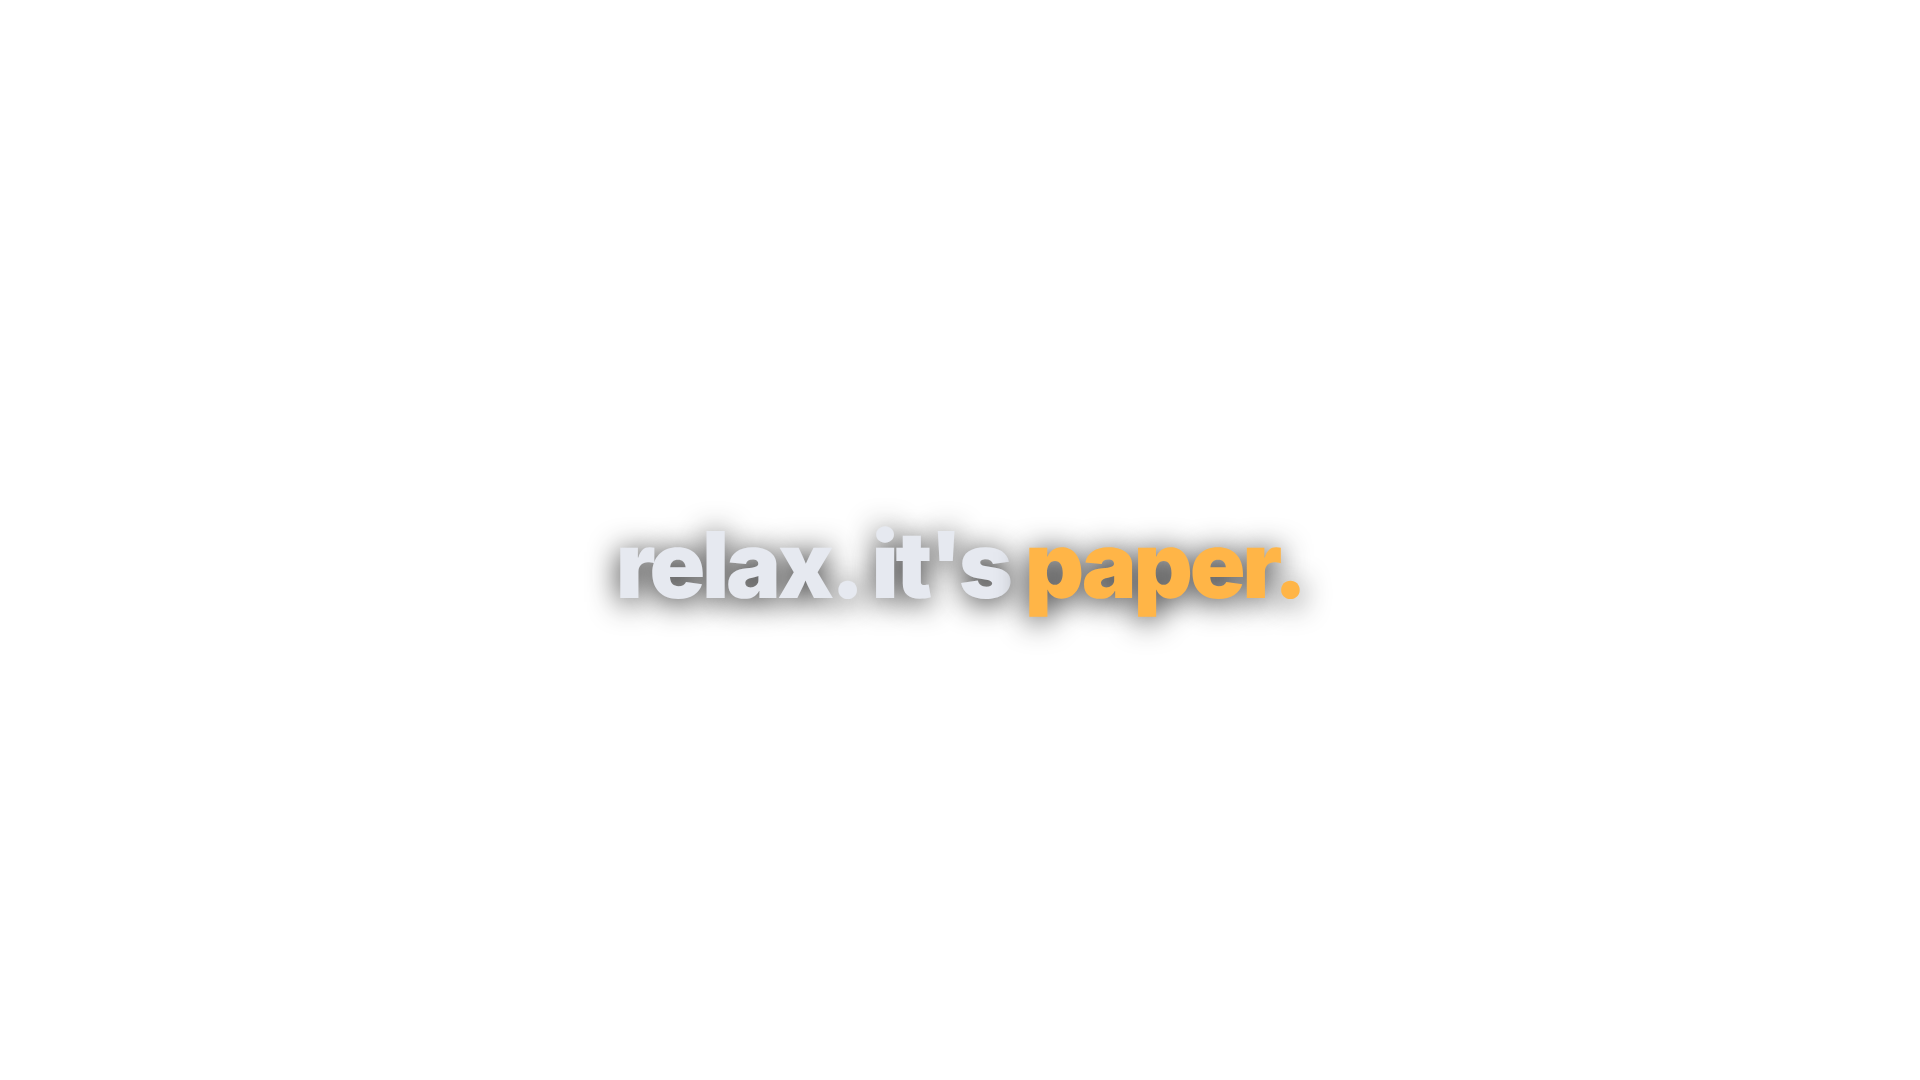
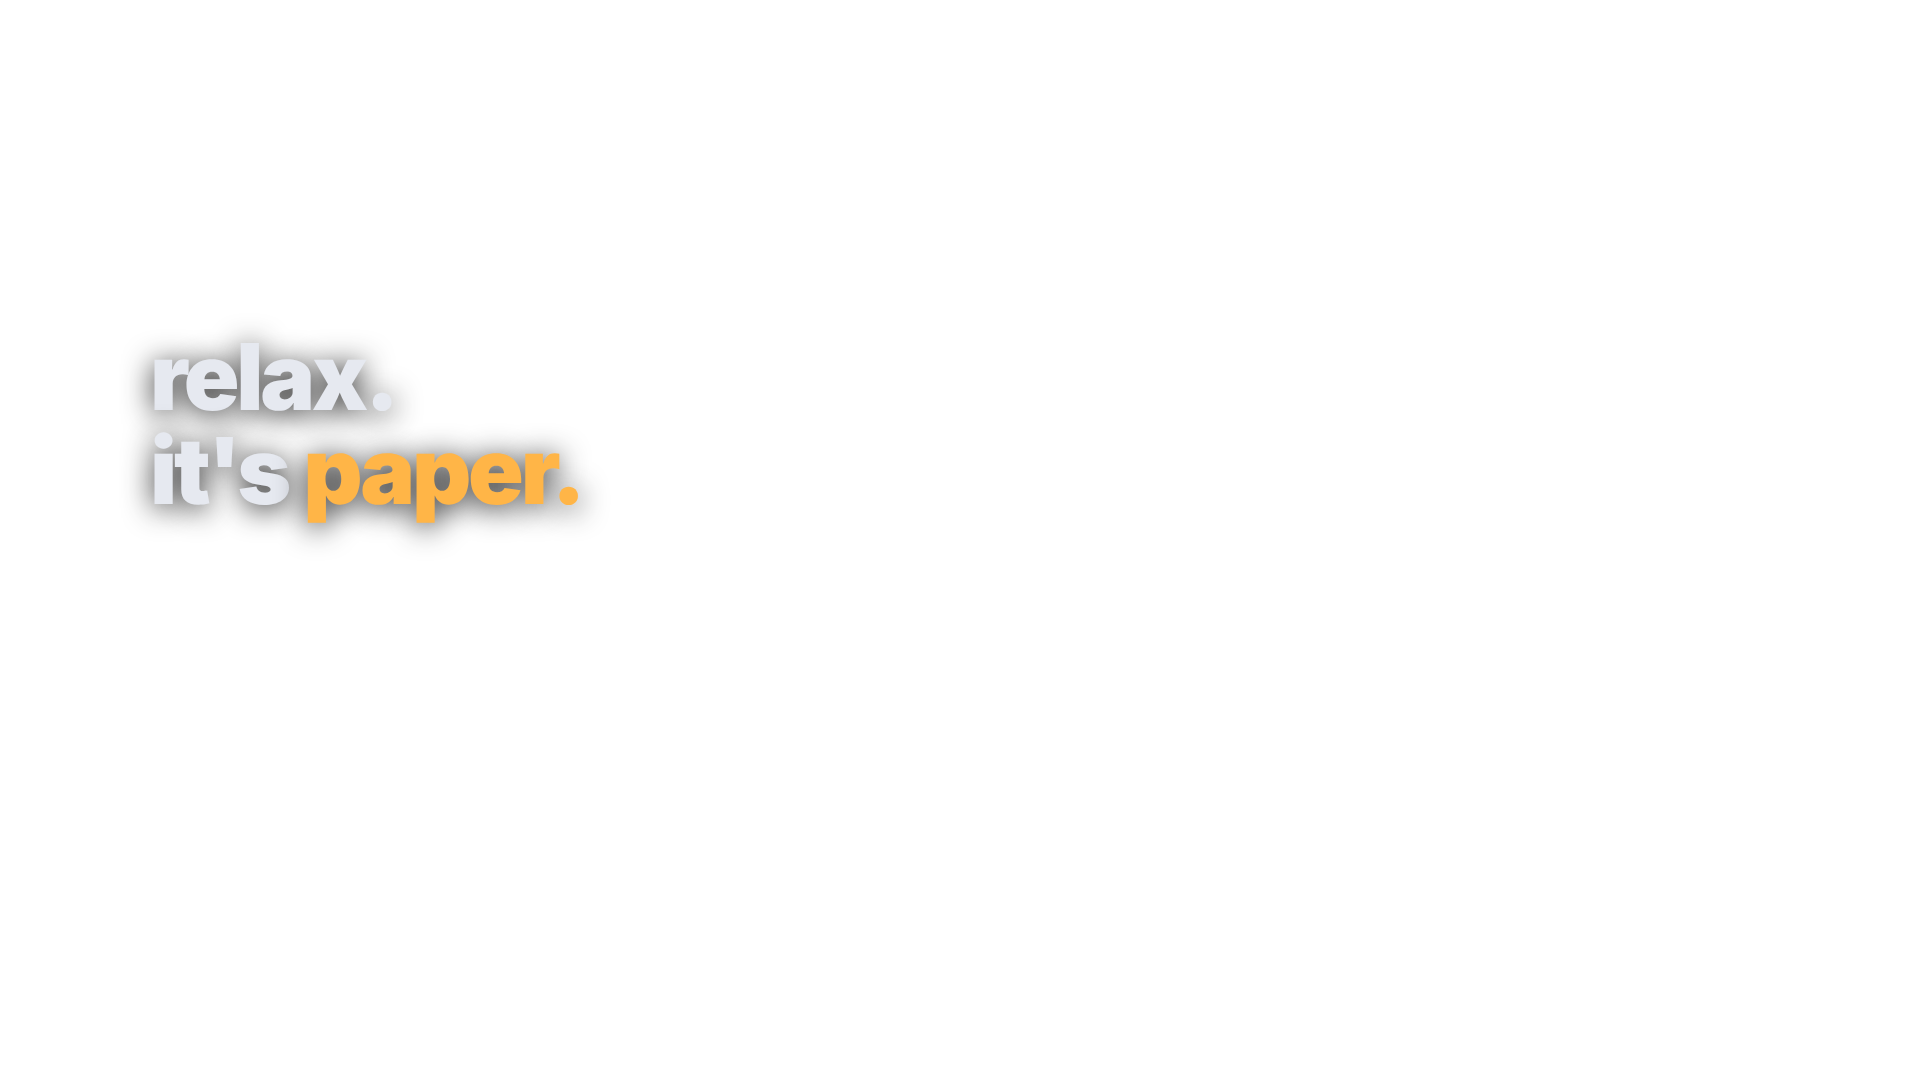
Trailer pipeline: overlay builder, edit list, region blur, VO + score mix
Claude-Session: https://claude.ai/code/session_017xU29rumcgkrYhmPPFcfdL

Changed region(s): [[0.0625, 0.3056, 0.3125, 0.5194], [0.3125, 0.4889, 0.6875, 0.5806]]

diff --git a/marketing/tools/trailer_ovl.py b/marketing/tools/trailer_ovl.py
@@ -1,0 +1,182 @@
+"""Trailer overlay layer (SCRIPT.md §5, §9): full-frame 1920x1080 PNGs.
+
+Usage: python3 trailer_ovl.py out_dir html_dir jobs.json
+"""
+import html
+import json
+import os
+import sys
+
+ROOT = "/home/user/Gmgn/marketing"
+LOGO = f"{ROOT}/brand/logo"
+CHIPS = f"{ROOT}/video/overlays/chips"
+STACK = open(f"{LOGO}/lockup-stacked-dark.svg").read()
+W, H = 1920, 1080
+BAR = 138  # 2.39:1 letterbox inside 16:9
+RETICLE = ('<svg viewBox="0 0 32 32" style="width:100%;height:100%;overflow:visible">'
+           '<circle cx="16" cy="16" r="9" fill="none" stroke="#FFB547" stroke-width="1.6" opacity=".85"/>'
+           '<path d="M16 2.5v5M16 24.5v5M2.5 16h5M24.5 16h5" stroke="#FFB547" stroke-width="1.6" stroke-linecap="round" opacity=".85"/></svg>')
+
+
+def rich(s, color="#FFB547"):
+    out = html.escape(s or "")
+    parts = out.split("*")
+    return "".join(p if i % 2 == 0 else f'<span style="color:{color}">{p}</span>' for i, p in enumerate(parts)).replace("\n", "<br>")
+
+
+def page(body, opaque=False):
+    bg = "#0A0C10" if opaque else "transparent"
+    grain = ('<div style="position:absolute;inset:0;background:repeating-linear-gradient(0deg,rgba(255,255,255,.022) 0 1px,transparent 1px 3px)"></div>' if opaque else "")
+    return (f'<!doctype html><html><head><meta charset="utf-8"><style>*{{margin:0;padding:0;box-sizing:border-box}}'
+            f'html,body{{width:{W}px;height:{H}px;overflow:hidden;background:{bg}}}body{{font-family:Inter,sans-serif;color:#E6E9F0;-webkit-font-smoothing:antialiased}}'
+            f'.mono{{font-family:"JetBrains Mono",monospace}}</style></head><body>{grain}{body}</body></html>')
+
+
+def letterbox():
+    return page(f'<div style="position:absolute;left:0;right:0;top:0;height:{BAR}px;background:#050608"></div>'
+                f'<div style="position:absolute;left:0;right:0;bottom:0;height:{BAR}px;background:#050608"></div>')
+
+
+def simbug():
+    return page('<div class="mono" style="position:absolute;right:48px;top:44px;background:rgba(10,12,16,.8);border:1.5px solid #FFB547;color:#FFB547;'
+                'font-weight:600;font-size:26px;letter-spacing:.08em;padding:10px 18px;border-radius:999px">SIM · PAPER TRADING</div>')
+
+
+def label(text, y=BAR + 34):
+    return page(f'<div class="mono" style="position:absolute;left:200px;top:{y}px;color:#8C94A3;font-weight:500;font-size:24px;letter-spacing:.16em">{html.escape(text)}</div>')
+
+
+def big_caption(text, y_bottom=BAR + 70, size=78):
+    return page(f'<div style="position:absolute;left:0;right:0;bottom:{y_bottom}px;text-align:center;font-weight:900;font-size:{size}px;letter-spacing:-.035em;'
+                f'line-height:1.02;text-shadow:0 4px 30px rgba(0,0,0,.85)">{rich(text)}</div>')
+
+
+def lower_third(text, y_bottom=96, size=52):
+    return page(f'<div style="position:absolute;left:0;right:0;bottom:{y_bottom}px;display:flex;justify-content:center">'
+                f'<div style="background:rgba(10,12,16,.78);border-radius:12px;padding:12px 26px;font-weight:700;font-size:{size}px;letter-spacing:-.025em">{rich(text)}</div></div>')
+
+
+def reticle(x, y, size=220):
+    return page(f'<div style="position:absolute;left:{x - size/2}px;top:{y - size/2}px;width:{size}px;height:{size}px;filter:drop-shadow(0 0 14px rgba(255,181,71,.6))">{RETICLE}</div>')
+
+
+def chip_at(tag, x, y, h=76):
+    return page(f'<img src="file://{CHIPS}/{tag}.png" style="position:absolute;left:{x}px;top:{y}px;height:{h}px">')
+
+
+def species(name, latin, tag, top=BAR + 40, left=200):
+    return page(f'<div style="position:absolute;left:{left}px;top:{top}px">'
+                f'<div class="mono" style="font-style:italic;font-weight:500;font-size:26px;color:#8C94A3;margin-bottom:12px">{html.escape(latin)}</div>'
+                f'<div style="display:flex;align-items:center;gap:24px"><div style="font-weight:900;font-size:96px;letter-spacing:-.03em;line-height:1;text-shadow:0 4px 30px rgba(0,0,0,.8)">{html.escape(name)}</div>'
+                f'<img src="file://{CHIPS}/{tag}.png" style="height:76px"></div></div>')
+
+
+def species_left(lines, latin, tag, top=BAR + 30, left=80, size=78):
+    name = "<br>".join(html.escape(l) for l in lines)
+    return page(f'<div style="position:absolute;left:{left}px;top:{top}px;max-width:640px">'
+                f'<div class="mono" style="font-style:italic;font-weight:500;font-size:26px;color:#8C94A3;margin-bottom:12px">{html.escape(latin)}</div>'
+                f'<div style="font-weight:900;font-size:{size}px;letter-spacing:-.03em;line-height:.98;text-shadow:0 4px 30px rgba(0,0,0,.85)">{name}</div>'
+                f'<img src="file://{CHIPS}/{tag}.png" style="height:76px;margin-top:18px"></div>')
+
+
+def left_caption(text, top, size=92, color=None):
+    c = f"color:{color};" if color else ""
+    return page(f'<div style="position:absolute;left:150px;top:{top}px;font-weight:900;font-size:{size}px;letter-spacing:-.035em;line-height:1.02;{c}text-shadow:0 4px 30px rgba(0,0,0,.85)">{rich(text)}</div>')
+
+
+def left_note(text, top):
+    return page(f'<div class="mono" style="position:absolute;left:154px;top:{top}px;color:#8C94A3;font-weight:600;font-size:24px;letter-spacing:.05em">{html.escape(text)}</div>')
+
+
+def card(text, size=110):
+    return page(f'<div style="position:absolute;inset:0;display:flex;align-items:center;justify-content:center;text-align:center;font-weight:900;font-size:{size}px;letter-spacing:-.04em">{rich(text)}</div>', opaque=True)
+
+
+def red_word(text, x=None):
+    return page(f'<div style="position:absolute;left:0;right:0;top:300px;text-align:center;font-weight:900;font-size:150px;letter-spacing:-.03em;color:#FF5468;text-shadow:0 6px 40px rgba(0,0,0,.85)">{html.escape(text)}</div>')
+
+
+def mono_note(text, y_bottom=BAR + 30):
+    return page(f'<div class="mono" style="position:absolute;left:0;right:0;bottom:{y_bottom}px;text-align:center;color:#8C94A3;font-weight:600;font-size:26px;letter-spacing:.06em">{html.escape(text)}</div>')
+
+
+def lock(end=False):
+    lock_svg = STACK.replace("<svg ", '<svg style="height:300px;width:auto" ')
+    extra = ""
+    if end:
+        extra = ('<div style="margin-top:26px;font-weight:500;font-size:34px;color:#E6E9F0">no real bags were harmed in the making of this film.</div>'
+                 '<div class="mono" style="margin-top:14px;font-weight:500;font-size:30px;color:#FFB547">@trenchscope</div>')
+    dis = ('<div style="position:absolute;left:0;right:0;bottom:44px;text-align:center;color:#8C94A3;font-weight:500;font-size:26px;line-height:1.45">'
+           'AI-generated dramatization. Fictional people, tokens and events.<br>'
+           'Trenchscope is a simulated market with paper trading only. No real funds. No token. Not financial advice.'
+           + ('<div style="font-size:22px;margin-top:6px;color:#5C6372">not affiliated with any chain, launchpad or trading platform.</div>' if end else '')
+           + '</div>')
+    body = (f'<div style="position:absolute;left:0;right:0;top:{90 if end else 130}px;display:flex;flex-direction:column;align-items:center;text-align:center">{lock_svg}'
+            '<div style="margin-top:22px;font-weight:600;font-size:56px;letter-spacing:-.02em;color:#FFB547">larp the trenches.</div>'
+            '<div class="mono" style="margin-top:22px;border:1.5px solid #FFB547;border-radius:999px;padding:10px 22px;font-weight:600;font-size:24px;letter-spacing:.06em;color:#E6E9F0">PAPER TRADING · SIMULATED MARKET · NO TOKEN · NFA</div>'
+            f'{extra}</div>{dis}')
+    return page(body, opaque=True)
+
+
+def ai_tag():
+    return page(f'<div class="mono" style="position:absolute;right:48px;bottom:{BAR + 22}px;color:rgba(230,233,240,.55);font-weight:600;font-size:18px;letter-spacing:.12em">AI-GENERATED · DRAMATIZED</div>')
+
+
+def blur_box(x, y, w, h):
+    # A frosted plate to hide a generated ticker (ffmpeg can't blur per-region here).
+    return page(f'<div style="position:absolute;left:{x}px;top:{y}px;width:{w}px;height:{h}px;background:rgba(17,20,26,.92);border-radius:6px;'
+                f'box-shadow:0 0 0 1px rgba(255,181,71,.25)"></div>')
+
+
+OVERLAYS = {
+    "letterbox": letterbox(),
+    "simbug": simbug(),
+    "aitag": ai_tag(),
+    "s1-hook": big_caption("everything out here\nwants your *bag.*", size=84),
+    "s1-label": label("FIELD GUIDE TO THE TRENCHES · EP.01"),
+    "s1-reticle": reticle(810, 250, 240),
+    "s1-chip": chip_at("whale", 950, 214),
+    "s2-cap": big_caption("so we built a *scope.*", size=88),
+    "s3-a": lower_third("filmed on location."),
+    "s3-b": lower_third("the location is a *simulator.*"),
+    "s4-card": species("THE SNIPER", "emptor primus", "sniper"),
+    "s4-sub": lower_third("in before you blinked.", y_bottom=BAR + 40),
+    "s5-card": species("THE BUNDLER", "fasciculus unanimus", "bundler"),
+    "s5-sub": lower_third("one guy. six wallets. same block.", y_bottom=BAR + 40),
+    "s6-card": species("THE INSIDER", "amicus devi", "insider"),
+    "s6-sub": lower_third('already inside. "just a believer."', y_bottom=BAR + 40),
+    "s7-card": species("THE DEV", "creator fugiens", "dev"),
+    "s7-sub": lower_third("holding the rug.", y_bottom=BAR + 40),
+    "s8-cap": lower_third("receipts. on every token."),
+    "s9-card": card("so naturally, you…"),
+    "s10-card": species_left(["THE MOST", "ENDANGERED", "SPECIES"], "homo fomo", "you"),
+    "s10-sub": lower_third("reads the warning. *buys anyway.*"),
+    "s11-cap": big_caption("nature is not kind to late buyers.", size=72),
+    "s12-red": red_word("DEV SELL."),
+    "s12-cap": lower_third("rug: real-feeling. money: *fake.*"),
+    "s13-a": left_caption("relax.\nit's *paper.*", 330),
+    "s13-b": left_caption("*respawn.*", 540),
+    "s13-note": left_note("paper faucet · refills once a minute per chain", 650),
+    "lock": lock(False),
+    "end": lock(True),
+}
+
+
+def build(out_dir, html_dir, jobs_path, extra=None):
+    os.makedirs(out_dir, exist_ok=True)
+    os.makedirs(html_dir, exist_ok=True)
+    items = dict(OVERLAYS)
+    items.update(extra or {})
+    jobs = []
+    for k, v in items.items():
+        hp = os.path.join(html_dir, f"{k}.html")
+        open(hp, "w").write(v)
+        opaque = k in ("s9-card", "lock", "end")
+        jobs.append({"src": hp, "out": os.path.join(out_dir, f"{k}.png"), "width": W, "height": H, "transparent": not opaque, "wait": 250})
+    json.dump(jobs, open(jobs_path, "w"), indent=1)
+    print(len(jobs), "trailer overlays")
+
+
+if __name__ == "__main__":
+    extra = json.load(open(sys.argv[4])) if len(sys.argv) > 4 else None
+    build(sys.argv[1], sys.argv[2], sys.argv[3], extra)

diff --git a/marketing/tools/trailer_edit.py b/marketing/tools/trailer_edit.py
@@ -1,0 +1,84 @@
+"""Build the trailer edit list (SCRIPT.md §4) for vedit.py.
+
+Usage: python3 trailer_edit.py ROOT OUT.mp4 edit.json [rug_clip]
+ROOT is the repo root (local checkout or the sandbox clone). AI clips are read
+from ROOT/marketing/video/clips/cNN.mp4.
+"""
+import json
+import sys
+
+ROOT = sys.argv[1].rstrip("/")
+M = f"{ROOT}/marketing/video"
+OV = f"{M}/overlays/trailer"
+APP = f"{M}/app-footage"
+CL = f"{M}/clips"
+rug_clip = sys.argv[4] if len(sys.argv) > 4 else "trailer-rug"
+
+# Source windows (seconds) inside each 5 s AI clip.
+AI = {1: (0.4, 2.4), 2: (0.8, 1.8), 4: (1.2, 1.8), 5: (0.3, 2.4), 6: (0.0, 1.8), 7: (2.0, 2.4), 11: (0.4, 1.8), 13: (0.5, 2.4)}
+
+
+def ai(n):
+    s, d = AI[n]
+    return {"src": f"{CL}/c{n:02d}.mp4", "start": s, "end": s + d, "zoom": [1.0, 1.03]}
+
+
+GATE = f"{APP}/trailer-gate.mp4"
+gate_blur_dialog = [[1790, 286, 116, 48], [2040, 922, 220, 48]]
+gate_blur_toast = [[3300, 128, 180, 44], [3200, 168, 700, 64], [3560, 600, 220, 90]]
+
+segments = [
+    ai(1),                                                                                     # 0.0  whale
+    ai(2),                                                                                     # 2.4  periscope
+    {"src": f"{APP}/trailer-habitat.mp4", "start": 5.0, "end": 8.0, "crop": [206, 232, 3428, 1928], "zoom": [1.0, 1.03]},  # 4.2 habitat
+    ai(4),                                                                                     # 7.2  sniper
+    ai(5),                                                                                     # 9.0  bundler
+    ai(6),                                                                                     # 11.4 insider
+    ai(7),                                                                                     # 13.2 dev
+    {"src": GATE, "start": 0.05, "end": 2.25, "crop": [2700, 900, 1280, 720]},                 # 15.6 receipts: audit
+    {"src": GATE, "start": 2.25, "end": 3.05, "crop": [2700, 1480, 1280, 720]},                # 17.8 receipts: holder chips
+    {"src": f"{OV}/s9-card.png", "still": True, "dur": 1.2},                                   # 18.6 card
+    {"src": GATE, "start": 1.1, "end": 1.6, "crop": [2600, 100, 1240, 698], "blur": [[3560, 548, 220, 80]]},                   # 19.8 quote preview
+    {"src": GATE, "start": 3.75, "end": 6.05, "crop": [900, 200, 1600, 900], "blur": gate_blur_dialog},  # 20.3 dialog, tick, click
+    {"src": GATE, "start": 6.35, "end": 7.75, "crop": [2600, 100, 1240, 698], "blur": gate_blur_toast},   # 22.6 fill toast
+    ai(11),                                                                                    # 24.0 the rug
+    {"src": f"{APP}/{rug_clip}.mp4", "start": 0.2, "end": 3.2, "crop": [0, 330, 2400, 1350], "zoom": [1.0, 1.05]},  # 25.8 rug in the sim
+    ai(13),                                                                                    # 28.8 respawn
+    {"src": f"{OV}/lock.png", "still": True, "dur": 1.8},                                      # 31.2 lock
+    {"src": f"{OV}/end.png", "still": True, "dur": 3.6},                                       # 33.0 end card
+]
+
+t = 0.0
+starts = []
+for s in segments:
+    starts.append(round(t, 3))
+    t += s["dur"] if s.get("still") else s["end"] - s["start"]
+total = round(t, 3)
+
+
+def o(name, t0, t1, fade=0.12):
+    return {"png": f"{OV}/{name}.png", "t0": round(t0, 3), "t1": round(t1, 3), "fade": fade}
+
+
+AI_SPANS = [(0.0, 4.2), (7.2, 15.6), (24.0, 25.8), (28.8, 31.2)]
+overlays = []
+for a, b in AI_SPANS:
+    overlays += [o("letterbox", a, b, 0.01), o("aitag", a, b, 0.01)]
+overlays += [
+    o("s1-hook", 0.0, 2.3, 0.01), o("s1-label", 0.8, 2.3), o("s1-reticle", 0.6, 2.3, 0.08), o("s1-chip", 0.7, 2.3, 0.08),
+    o("s2-cap", 2.5, 4.1),
+    o("simbug", 4.2, 7.2, 0.01), o("s3-a", 4.4, 5.35), o("s3-b", 5.4, 7.1),
+    o("s4-card", 7.35, 8.9), o("s4-sub", 7.6, 8.9),
+    o("s5-card", 9.15, 11.3), o("s5-sub", 9.4, 11.3),
+    o("s6-card", 11.55, 13.1), o("s6-sub", 11.8, 13.1),
+    o("s7-card", 13.35, 15.5), o("s7-sub", 13.6, 15.5),
+    o("simbug", 15.6, 18.6, 0.01), o("s8-cap", 15.8, 18.5),
+    o("simbug", 19.8, 24.0, 0.01), o("s10-card", 20.0, 23.9), o("s10-sub", 20.3, 23.9),
+    o("s11-cap", 24.2, 25.7),
+    o("simbug", 25.8, 28.8, 0.01), o("s12-red", 26.2, 27.0, 0.05), o("s12-cap", 27.1, 28.7),
+    o("s13-a", 28.9, 31.1), o("s13-b", 30.0, 31.1), o("s13-note", 30.0, 31.1),
+]
+edit = {"out": sys.argv[2], "w": 1920, "h": 1080, "fps": 30, "segments": segments, "overlays": overlays,
+        "audio": f"{M}/audio/trailer-mix.wav"}
+json.dump(edit, open(sys.argv[3], "w"), indent=1)
+print("total", total, "starts", starts)

diff --git a/marketing/tools/vedit.py b/marketing/tools/vedit.py
@@ -29,9 +29,23 @@ def run(edit):
             args += ["-ss", str(s["start"]), "-t", str(s["end"] - s["start"]), "-i", s["src"]]
             dur = s["end"] - s["start"]
             chain = f"[{idx}:v]fps={FPS},setpts=PTS-STARTPTS,"
+        blurs = s.get("blur") or []
+        if blurs:
+            # Region blur in source pixels, applied before the crop.
+            chain = chain.rstrip(",") + f",split={len(blurs) + 1}" + "".join(f"[b{i}_{k}]" for k in range(len(blurs) + 1)) + ";"
+            base = f"[b{i}_0]"
+            for k, (bx, by, bw, bh) in enumerate(blurs, start=1):
+                chain += f"[b{i}_{k}]crop={bw}:{bh}:{bx}:{by},boxblur=luma_radius=10:luma_power=3:chroma_radius=5:chroma_power=3[bb{i}_{k}];"
+            for k, (bx, by, bw, bh) in enumerate(blurs, start=1):
+                out = f"[bo{i}_{k}]"
+                chain += f"{base}[bb{i}_{k}]overlay={bx}:{by}{out};"
+                base = out
+            chain += base
         if s.get("crop"):
             x, y, w, h = s["crop"]
             chain += f"crop={w}:{h}:{x}:{y},"
+        if chain.endswith("]"):
+            chain += "null,"
         z = s.get("zoom")
         if z:
             # Slow push-in from z[0] to z[1] over the segment (centre crop).
